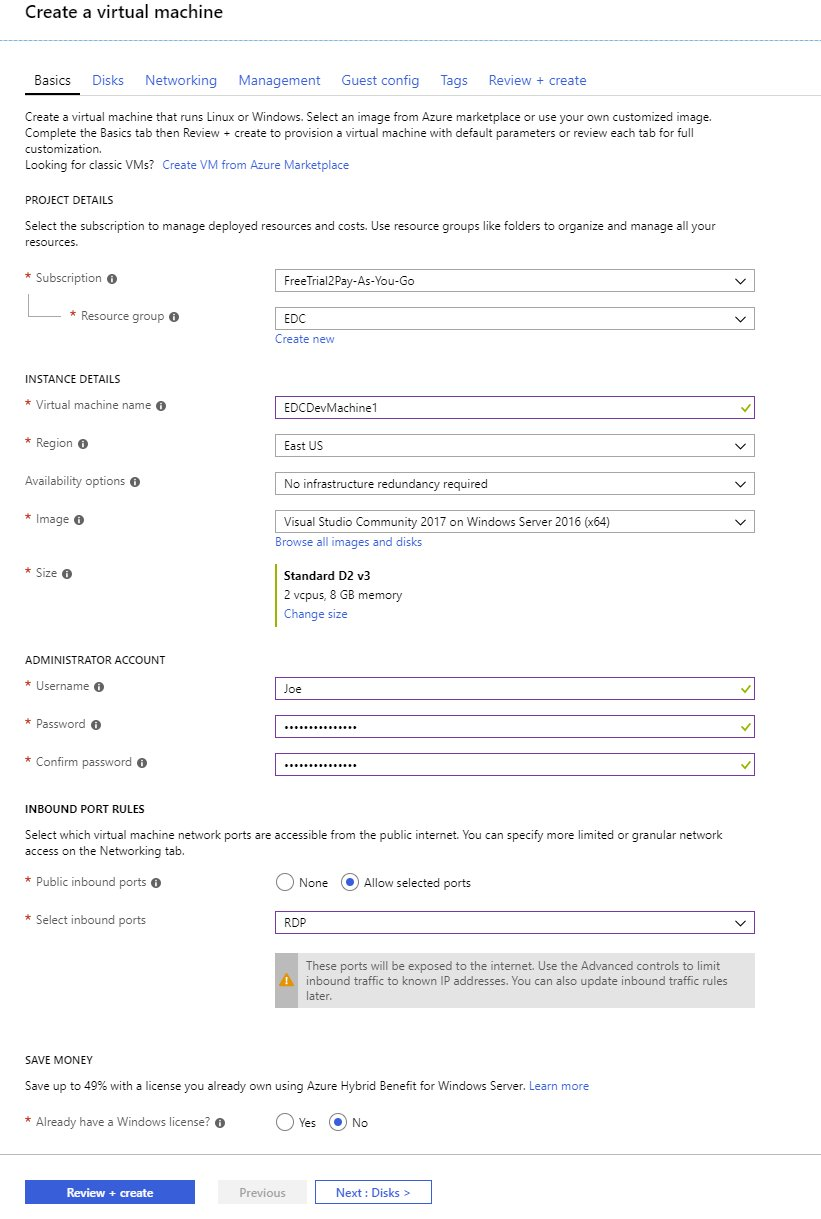
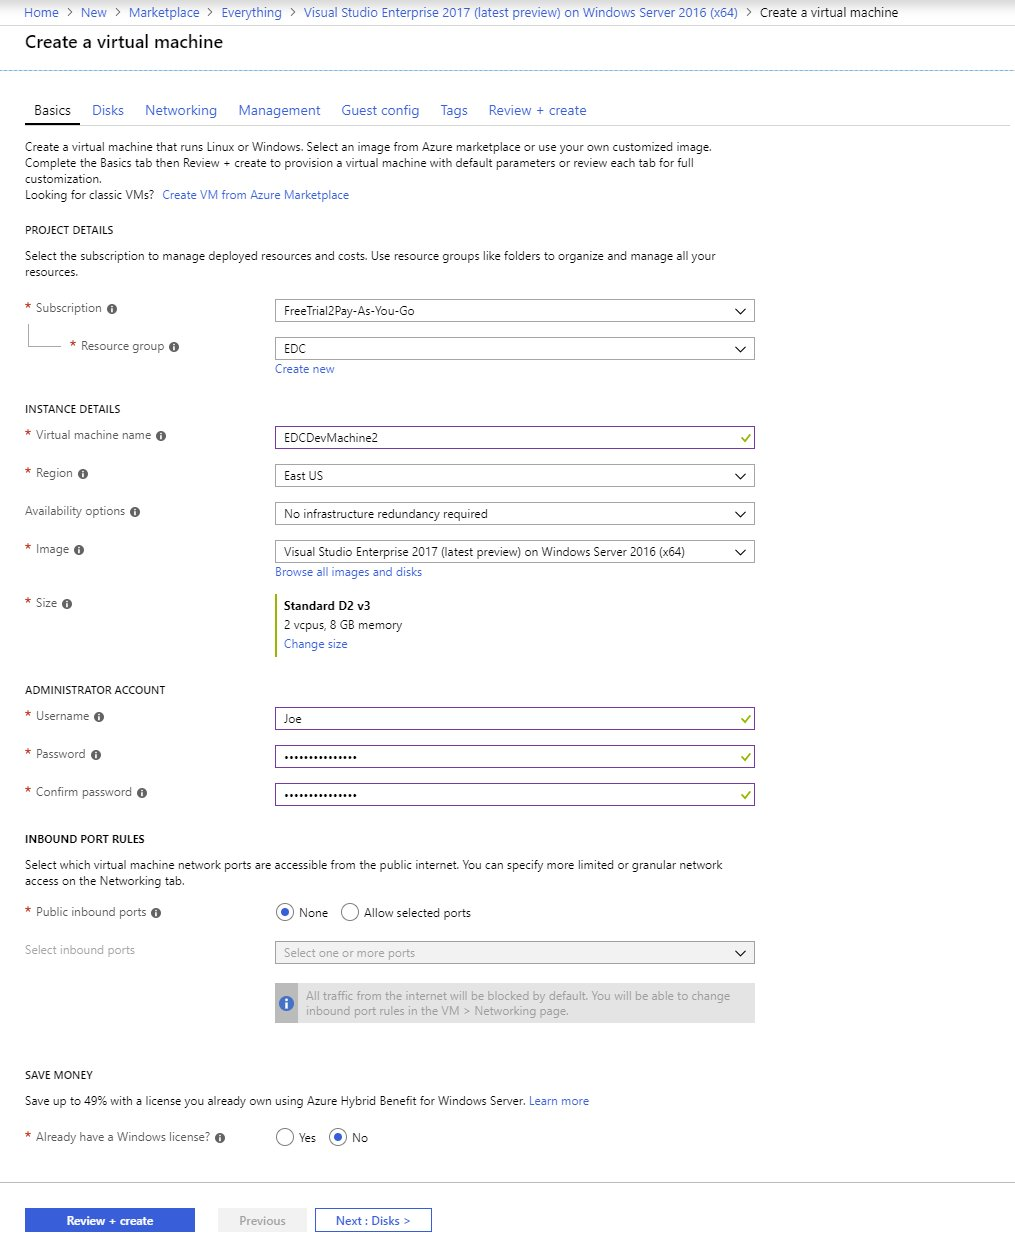
Added notes for handling of VS 2017

diff --git a/HOL/HOL3/README.md b/HOL/HOL3/README.md
@@ -55,11 +55,11 @@ For the sake of simplicity, we'll use the `Visual Studio Node.js and Express app
 
     ![image](./media/2018-06-29-13-22-00.jpg)
 
-1. Under `JavaScript`, select `Basic Node.js Express 4 Application`. Set the name to `EduDevCampPWA` and click `OK`.
+1. Under `JavaScript`, select `Basic Node.js Express 4 Application` (If you cannot find the template in the `JavaScript` folder please install the latest updates for Visual Studio 2017.). Set the name to `EduDevCampPWA` and click `OK`.
 
     ![image](./media/2018-06-29-13-26-00.jpg)
 
-1. Once your new project loads, Build (press `Ctrl + Shift + B`) and Start Debugging (`F5`). Verify that your `index.html` file is loading on [http://localhost:1337](http://localhost:1337).
+1. Once your new project loads, note the Output window where you can see the npm packages automatically installing. When the npm packages are ready, Build (press `Ctrl + Shift + B`) (***Do not skip this step!***) and Start Debugging (`F5`). Verify that your `index.html` file is loading on [http://localhost:1337](http://localhost:1337).
 
     ![image](./media/2018-06-29-16-06-00.jpg)
 

diff --git a/HOL/HOL0/README.md b/HOL/HOL0/README.md
@@ -174,7 +174,7 @@ To follow the programming examples in the upcoming hands-on labs you will need a
 
     ![image](./media/2018-07-18-15-39-00.jpg)
 
-1. From the results select `Visual Studio Community 2017 (latest release) on Windows Server 2016 (x64)` and click `Create` on the bottom of the page.
+1. From the results select `Visual Studio Community 2017 (latest preview) on Windows Server 2016 (x64)` and click `Create` on the bottom of the page.
 
     ![image](./media/2018-08-30-13-18-00.jpg)
 
